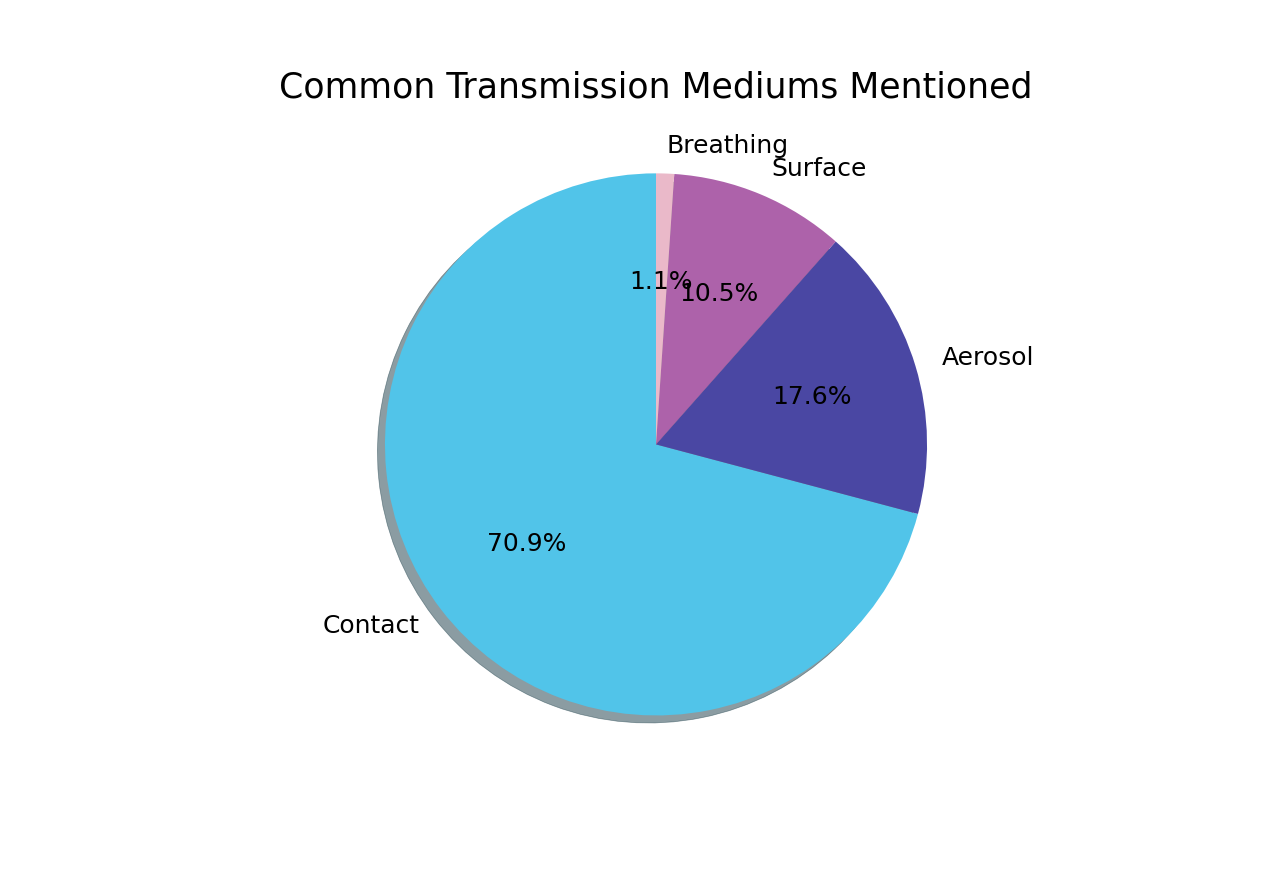
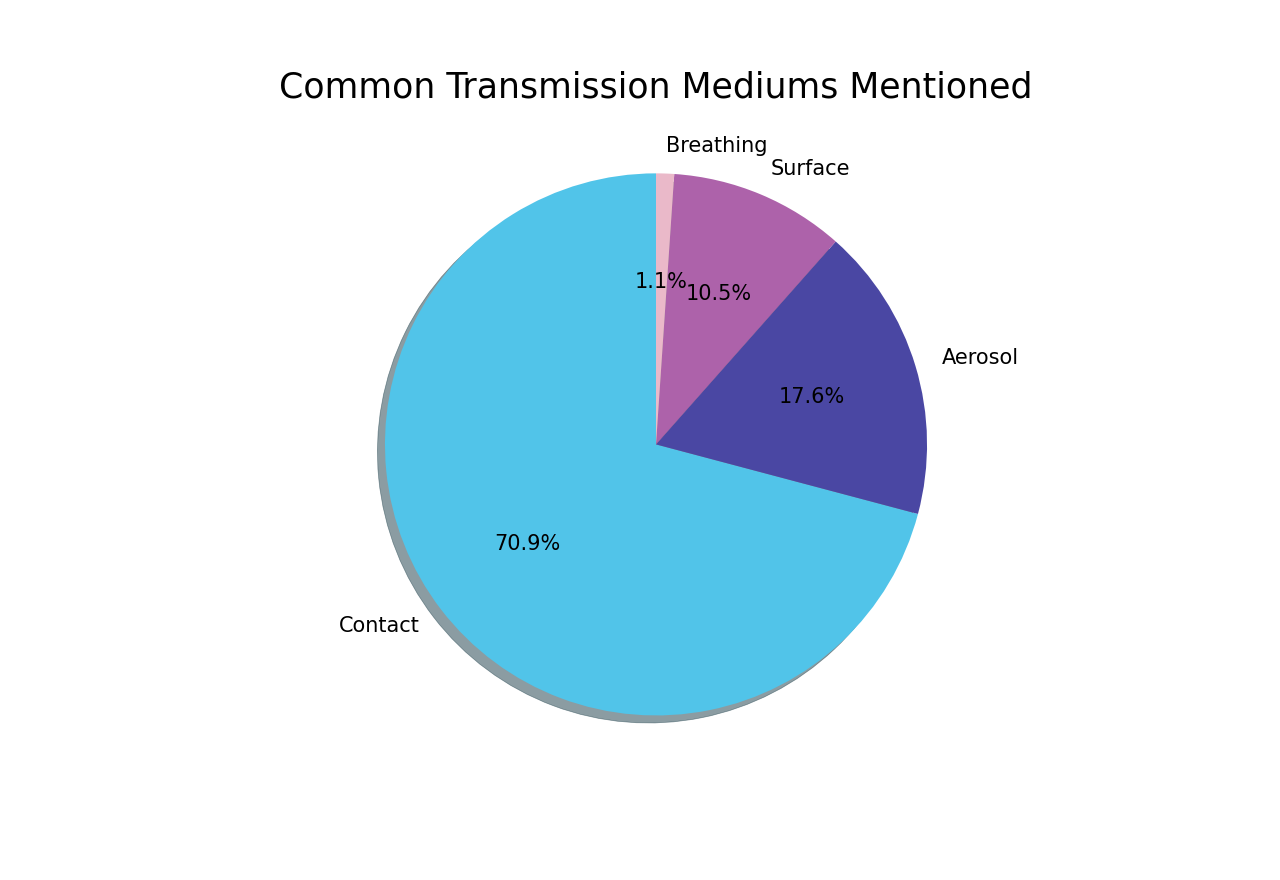
Adjust transition pie chart font

diff --git a/EDA/task1_transmission_incubation/Transmission.py b/EDA/task1_transmission_incubation/Transmission.py
@@ -84,7 +84,7 @@ def transmission(df):
         colors = ['#51c4e9', '#4a47a3', '#ad62aa', '#eab9c9']
         plt.pie(transmission_mediums_df['medium'].value_counts(),
                 labels=[i.capitalize() for i in transmission_mediums_df['medium'].value_counts().index],
-                autopct='%1.1f%%', startangle=90, shadow=True, textprops={'fontsize': 18}, colors=colors)
+                autopct='%1.1f%%', startangle=90, shadow=True, textprops={'fontsize': 15}, colors=colors)
 
         plt.title("Common Transmission Mediums Mentioned", fontsize=25)
         plt.savefig('Charts/TransmissionMediums.png')
